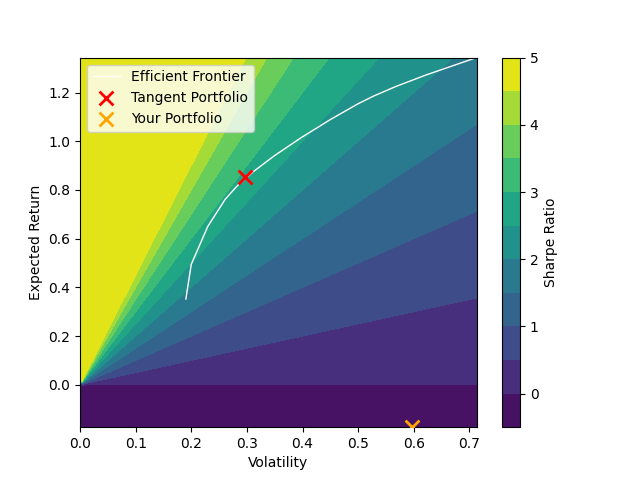
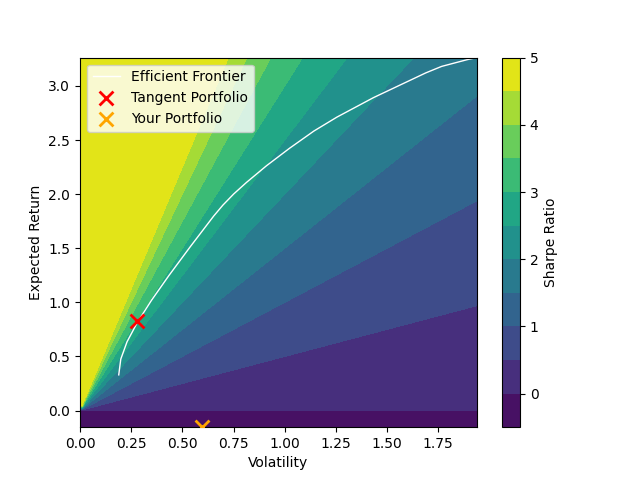
add headmap, fix frontier

diff --git a/src/Optimizer.py b/src/Optimizer.py
@@ -2,7 +2,7 @@ from scipy.optimize import minimize
 import numpy as np
 import math
 # LOAD CONFIG CONSTANTS
-from config import RF, SHORT_ALLOWED, SHORT_COST, DEFAULT_L
+from config import RF, SHORT_ALLOWED, SHORT_COST, DEFAULT_L, RETURN_CAP
 
 # --- HELPERS ---
 # Helper to assert valid L
@@ -65,9 +65,9 @@ def variance(w, sigma, short_cost = SHORT_COST):
     Returns variance of expected return from weight vector w and covariance matrix sigma
     Adjusts optimizer for shorting costs.
     """
-    variance = w.T @ sigma @ w
+    var = w.T @ sigma @ w
     short_penalty = short_cost * np.sum(np.maximum(-w, 0)**2)
-    return variance + short_penalty
+    return var + short_penalty
 
 def neg_sharpe_ratio(w, mu, sigma, rf = RF, short_cost = SHORT_COST):
     """
@@ -81,11 +81,11 @@ def neg_sharpe_ratio(w, mu, sigma, rf = RF, short_cost = SHORT_COST):
     return - (portfolio_return - short_penalty - rf)/portfolio_vol
 
 # Objective function for alpha, adjust for shorting cost
-def F_alpha(w, mu, sigma, alpha, short_cost):
-    fa = alpha * (w.T @ sigma @ w) - (1.0 - alpha) * (mu @ w)
+def F_alpha(w, mu, sigma, alpha, short_cost, rf = RF):
     short_positions = np.abs(np.minimum(w, 0))
     short_penalty = np.sum(short_positions) * short_cost
-    return fa + short_penalty
+    fa = alpha * (w.T @ sigma @ w) - (1.0 - alpha) * ((mu @ w) - short_penalty - rf) #
+    return fa
 
 # --- OPTIMIZERS ---
 def get_weights_by_target_return(mu,
@@ -162,7 +162,7 @@ def get_optimal_weights(mu, sigma, rf = RF, short_allowed = SHORT_ALLOWED, L = D
     w = res.x
     return w
 
-def get_weights_by_alpha(mu, sigma, alpha, short_allowed = True, L = 1.5, short_cost = 0.0):
+def get_weights_by_alpha(mu, sigma, alpha, short_allowed = True, L = DEFAULT_L, short_cost = SHORT_COST):
     L = assert_L(L)
 
     n = len(mu)
@@ -181,9 +181,17 @@ def get_weights_by_alpha(mu, sigma, alpha, short_allowed = True, L = 1.5, short_
     )
     return res.x
 
-def get_efficient_frontier(mu, sigma, short_allowed = True, L = 1.5, short_cost = 0.0):
+def get_efficient_frontier(
+        mu,
+        sigma,
+        short_allowed = True,
+        rf = RF,
+        L = DEFAULT_L,
+        short_cost = SHORT_COST,
+        return_cap = RETURN_CAP
+    ):
     res = []
-    alphas = np.arange(0.05, 1.01, 0.05)
+    alphas = np.arange(0.01, 1.01, 0.01)[::-1]
     for alpha in alphas:
         w = get_weights_by_alpha(
             mu,
@@ -193,10 +201,15 @@ def get_efficient_frontier(mu, sigma, short_allowed = True, L = 1.5, short_cost 
             L = L,
             short_cost = short_cost
         )
+        vol = math.sqrt(w.T @ sigma @ w)
+        short_positions = np.abs(np.minimum(w, 0))
+        short_penalty = np.sum(short_positions) * short_cost
+        ret = mu@w - short_penalty - rf
         res.append((
-            math.sqrt(w.T @ sigma @ w),
-            mu@w,
+            vol,
+            ret
         ))
+        if ret > return_cap: break
     return res
 
 

diff --git a/src/Plotters.py b/src/Plotters.py
@@ -1,7 +1,11 @@
 import math
 import numpy as np
+import pandas as pd
 import matplotlib.pyplot as plt
 from pathlib import Path
+
+from src import Utilities
+
 
 def plot_frontier(frontier, optimal_p, default_p, show = True, save = False):
     volatility = np.array([v for (v, _) in frontier])
@@ -9,7 +13,7 @@ def plot_frontier(frontier, optimal_p, default_p, show = True, save = False):
     # Values to crop plot
     min_x = min(0, min(optimal_p[0], default_p[0]))
     min_y = min(0, min(optimal_p[1], default_p[1]))
-    max_x = max(max(optimal_p[0], default_p[0]), volatility.max())
+    max_x = volatility.max()
     max_y = max(max(optimal_p[1], default_p[1]), returns.max())
 
     if optimal_p[0] != 0 and default_p[0] !=0:
@@ -43,6 +47,7 @@ def plot_frontier(frontier, optimal_p, default_p, show = True, save = False):
 
     if default_p is not None:
         dpx, dpy = default_p
+        dpx = min(dpx, max_x)
         plt.scatter(dpx, dpy, color="orange", marker="x", s=100, linewidths=2, label="Your Portfolio", zorder=3)
 
     # Labels and legend
@@ -53,6 +58,9 @@ def plot_frontier(frontier, optimal_p, default_p, show = True, save = False):
     # Colorbar (Sharpe ratio index)
     cbar = plt.colorbar(contour)
     cbar.set_label("Sharpe Ratio")
+
+    plt.xlim(min_x, max_x)
+    plt.ylim(min_y, max_y)
     if save:
         save_fig(plt, file_name = "efficient_frontier")
     if show:
@@ -60,6 +68,39 @@ def plot_frontier(frontier, optimal_p, default_p, show = True, save = False):
     else:
         plt.close()
 
+
+def plot_heatmap(portfolio, sigma, show=True, save=False):
+    if isinstance(portfolio, dict):
+        portfolio = list(portfolio.keys())
+
+    portfolio = list(portfolio)
+
+    # Validate dimensions
+    if sigma.shape[0] != len(portfolio):
+        raise ValueError("sigma size must match portfolio length")
+
+    cov_df = pd.DataFrame(sigma, index=portfolio, columns=portfolio)
+
+    # Plot covariance heatmap
+    fig, ax = plt.subplots()
+    max_abs = np.max(np.abs(sigma))
+    cax = ax.imshow(cov_df, interpolation='nearest', vmin=-max_abs, vmax=max_abs)
+
+    ax.set_xticks(range(len(portfolio)))
+    ax.set_yticks(range(len(portfolio)))
+    ax.set_xticklabels(portfolio, rotation=90)
+    ax.set_yticklabels(portfolio)
+
+    fig.colorbar(cax)
+    ax.set_title("Covariance Heatmap", pad=15)
+
+    if save:
+        plt.savefig("covariance_heatmap.png", bbox_inches="tight")
+
+    if show:
+        plt.show()
+    else:
+        plt.close()
 
 def save_fig(fig, file_name):
     root = Path(__file__).resolve().parents[1]

diff --git a/src/Frontier.py b/src/Frontier.py
@@ -1,3 +1,59 @@
+def plot_frontier(frontier, optimal_p, default_p, show = True, save = False):
+    volatility = np.array([v for (v, _) in frontier])
+    returns = np.array([ret for (_, ret) in frontier])
+    # Values to crop plot
+    min_x = min(0, min(optimal_p[0], default_p[0]))
+    min_y = min(0, min(optimal_p[1], default_p[1]))
+    max_x = max(max(optimal_p[0], default_p[0]), volatility.max())
+    max_y = max(max(optimal_p[1], default_p[1]), returns.max())
+
+    if optimal_p[0] != 0 and default_p[0] !=0:
+        min_sharpe = min((optimal_p[1]/optimal_p[0]), (default_p[1]/default_p[0]))
+    else:
+        min_sharpe = 0
+
+    # Create grid for background gradient
+    x = np.linspace(min_x, max_x, 200)
+    y = np.linspace(min_y, max_y, 200)
+    X, Y = np.meshgrid(x, y)
+
+    # Avoid division by zero
+    Z = np.divide(Y, X, out=np.zeros_like(Y), where=X != 0)
+
+    # Cap sharpe ratio color map
+    Z = np.minimum(Z, 5)
+    Z = np.maximum(Z, min_sharpe)
+    plt.figure()
+
+    # Background heatmap (blue → yellow)
+    contour = plt.contourf(X, Y, Z, levels=10, cmap="viridis")
+
+    # Efficient frontier line in middle
+    plt.plot(volatility, returns, color="white", linewidth=1, label=f"Efficient Frontier", zorder=2)
+
+    # opt/user portfolio on top
+    if optimal_p is not None:
+        opx, opy = optimal_p
+        plt.scatter(opx, opy, color="red", marker="x", s=100, linewidths=2, label="Tangent Portfolio", zorder=3)
+
+    if default_p is not None:
+        dpx, dpy = default_p
+        plt.scatter(dpx, dpy, color="orange", marker="x", s=100, linewidths=2, label="Your Portfolio", zorder=3)
+
+    # Labels and legend
+    plt.xlabel("Volatility")
+    plt.ylabel("Expected Return")
+    plt.legend()
+
+    # Colorbar (Sharpe ratio index)
+    cbar = plt.colorbar(contour)
+    cbar.set_label("Sharpe Ratio")
+    if save:
+        save_fig(plt, file_name = "efficient_frontier")
+    if show:
+        plt.show()
+    else:
+        plt.close()
 
 
 

diff --git a/src/Utilities.py b/src/Utilities.py
@@ -63,8 +63,7 @@ def get_portfolio_stats(portfolio, returns_df, rf = RF, ndigits=4):
     mu = get_expected_returns(returns_df)
     sigma = get_covariance_matrix(returns_df)
     weights = np.array(list(portfolio.values()))
-    # adds rf because neg_return function subtracts it
-    expected_return = -Optimizer.neg_return(weights, mu) + rf
+    expected_return = -Optimizer.neg_return(weights, mu)
     volatility = math.sqrt(weights.T @ sigma @ weights)
     sharpe = -Optimizer.neg_sharpe_ratio(weights, mu, sigma)
     gross_leverage = np.sum(np.abs(weights))

diff --git a/scripts/create_and_analyze_portfolio.py b/scripts/create_and_analyze_portfolio.py
@@ -54,6 +54,7 @@ optimal_p = (
 )
 save = input("Do you want to save the frontier figure? (y/n): ")
 Plotters.plot_frontier(frontier, optimal_p, default_p, save = save)
+Plotters.plot_heatmap(valid_tickers, sigma, save = save)
 
 
 

diff --git a/config.py b/config.py
@@ -3,5 +3,6 @@ RF = 0.02
 SHORT_ALLOWED = True
 YEARS = 1
 SHORT_COST = 0.05
+RETURN_CAP = 1.5
 
 DEFAULT_PORTFOLIO_PATH = "data/default_portfolio.json"
